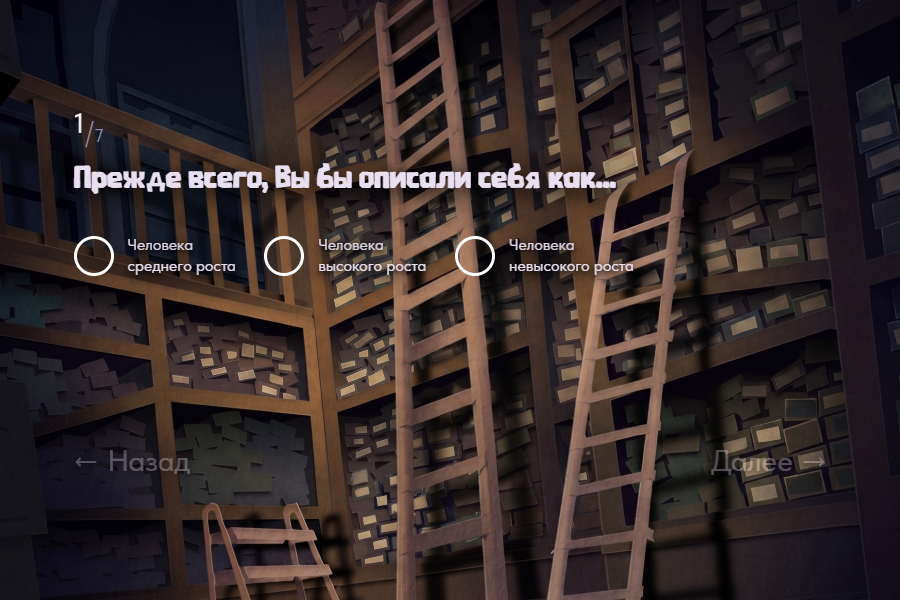
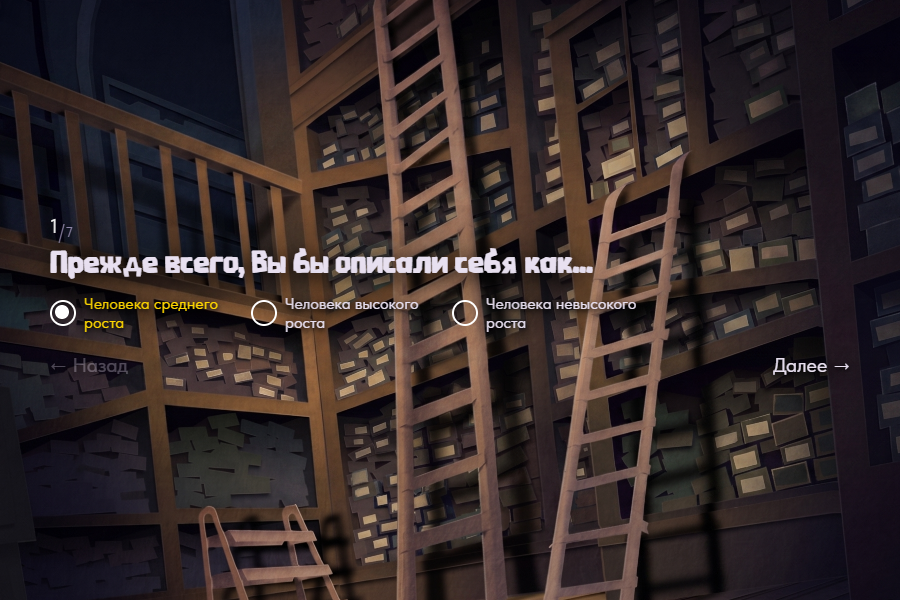
скриншот

diff --git a/js/screenshot.js b/js/screenshot.js
@@ -1,0 +1,108 @@
+// screenshot.js — захват скриншота страницы с результатом теста
+// Использует html2canvas для создания скриншота DOM-элемента
+
+/**
+ * Делает скриншот центральной части экрана результата,
+ * попадающей в эллипс фонового изображения (без кнопки "Пройти заново").
+ * @returns {Promise<Blob>} - Blob изображения в формате PNG
+ */
+export async function captureResultScreenshot() {
+  // Находим элемент результата
+  const resultScreen = document.querySelector(".result-screen");
+  if (!resultScreen) {
+    throw new Error("Result screen not found");
+  }
+
+  // Находим кнопку "Пройти заново" и скрываем её на время скриншота
+  const restartBtn = document.getElementById("btn-restart");
+  if (restartBtn) {
+    restartBtn.style.display = "none";
+  }
+
+  // Также скрываем все кнопки внутри result-screen (share, restart)
+  const allButtons = resultScreen.querySelectorAll(".btn");
+  allButtons.forEach((btn) => {
+    btn.style.display = "none";
+  });
+
+  try {
+    // Ждём стабилизации параллакс-фона (сброс наклона)
+    await new Promise((resolve) => setTimeout(resolve, 100));
+
+    // Создаём скриншот всей страницы с высоким качеством
+    const canvas = await html2canvas(document.body, {
+      scale: 2, // 2x для чёткости
+      useCORS: true,
+      allowTaint: true,
+      backgroundColor: null, // прозрачный фон
+      logging: false,
+      width: window.innerWidth,
+      height: window.innerHeight,
+      x: 0,
+      y: 0,
+      scrollX: 0,
+      scrollY: 0,
+      windowWidth: window.innerWidth,
+      windowHeight: window.innerHeight,
+    });
+
+    // Вычисляем область эллипса: ellipse 50% 60% at 50% 50%
+    // Это центральная часть: 50% ширины и 60% высоты
+    const centerX = canvas.width / 2;
+    const centerY = canvas.height / 2;
+    const ellipseRadiusX = canvas.width * 0.25; // 50% / 2
+    const ellipseRadiusY = canvas.height * 0.30; // 60% / 2
+
+    // Создаём новый canvas для обрезки по эллипсу
+    const resultCanvas = document.createElement("canvas");
+    resultCanvas.width = ellipseRadiusX * 2;
+    resultCanvas.height = ellipseRadiusY * 2;
+    const ctx = resultCanvas.getContext("2d");
+
+    // Рисуем эллиптическую маску
+    ctx.beginPath();
+    ctx.ellipse(
+      ellipseRadiusX,
+      ellipseRadiusY,
+      ellipseRadiusX,
+      ellipseRadiusY,
+      0,
+      0,
+      Math.PI * 2
+    );
+    ctx.closePath();
+    ctx.clip();
+
+    // Копируем центральную часть исходного canvas в resultCanvas
+    ctx.drawImage(
+      canvas,
+      centerX - ellipseRadiusX,
+      centerY - ellipseRadiusY,
+      ellipseRadiusX * 2,
+      ellipseRadiusY * 2,
+      0,
+      0,
+      ellipseRadiusX * 2,
+      ellipseRadiusY * 2
+    );
+
+    // Конвертируем в Blob
+    return new Promise((resolve, reject) => {
+      resultCanvas.toBlob((blob) => {
+        if (blob) {
+          resolve(blob);
+        } else {
+          reject(new Error("Failed to create blob from canvas"));
+        }
+      }, "image/png");
+    });
+  } finally {
+    // Восстанавливаем видимость кнопок
+    if (restartBtn) {
+      restartBtn.style.display = "";
+    }
+    allButtons.forEach((btn) => {
+      btn.style.display = "";
+    });
+  }
+}

diff --git a/js/app.js b/js/app.js
@@ -2,10 +2,9 @@
 import { questions } from "./questions.js";
 import { findResult } from "./results.js";
 import { initParallaxBg, setParallaxBg, clearParallaxBg } from "./parallax-bg.js";
-import { generateResultImage } from "./result-image.js";
-import { uploadAndGetAttachment, sendMessageToUser } from "./vk-api.js";
-import { VK_CONFIG } from "./vk-config.js";
+import { sendMessageToUser, uploadAndGetAttachment } from "./vk-api.js";
 import { getVkUserInfo } from "./vk-bridge.js";
+import { captureResultScreenshot } from "./screenshot.js";
 
 // === Состояние ===
 const state = {
@@ -133,6 +132,7 @@ function finishTest() {
 
 /**
  * Отправляет результат теста пользователю в ЛС от имени группы
+ * с прикреплённым скриншотом результата
  */
 async function sendResultToUser() {
   if (!state.result) return;
@@ -145,7 +145,19 @@ async function sendResultToUser() {
       return;
     }
 
-    // 2. Формируем текст сообщения
+    // 2. Делаем скриншот результата (центральная часть в эллипсе, без кнопок)
+    let attachment = null;
+    try {
+      const screenshotBlob = await captureResultScreenshot();
+      const result = await uploadAndGetAttachment(screenshotBlob);
+      attachment = result.attachment;
+      console.log("Скриншот результата загружен в ВК:", attachment);
+    } catch (screenshotError) {
+      // Если скриншот не удался — продолжаем без него
+      console.log("Не удалось создать/загрузить скриншот:", screenshotError);
+    }
+
+    // 3. Формируем текст сообщения
     const message = `🪄 Олливандер выбрал для тебя волшебную палочку!\n\n` +
       `✨ ${state.result.title}\n` +
       `📏 Длина: ${state.result.length}\n` +
@@ -153,9 +165,9 @@ async function sendResultToUser() {
       `${state.result.description}\n\n` +
       `Пройти тест: ${window.location.href}`;
 
-    // 3. Отправляем сообщение
-    await sendMessageToUser(userInfo.id, message);
-    console.log("Результат отправлен в ЛС пользователю", userInfo.id);
+    // 4. Отправляем сообщение с прикреплённым скриншотом
+    await sendMessageToUser(userInfo.id, message, attachment);
+    console.log("Результат отправлен в ЛС пользователю", userInfo.id, "с attachment:", attachment);
   } catch (error) {
     // Если не сработало — не критично, пользователь всё равно видит результат на экране
     console.log("Не удалось отправить ЛС (возможно, нет диалога с группой):", error);
@@ -183,9 +195,6 @@ function renderResultScreen() {
     `;
     document.getElementById("btn-restart").addEventListener("click", resetTest);
   } else {
-    // Формируем текст для публикации
-    const shareText = `🪄 Олливандер выдал мне волшебную палочку: ${result.title}!\n\n${result.description}\n\nДревесина: ${result.wood}\nСердцевина: ${result.core}\nДлина: ${result.length}\nУпругость: ${result.flexibility}\n\nА какая палочка достанется тебе? Пройди тест →`;
-
     app.innerHTML = `
       <div class="screen result-screen">
         <div class="result-icon">🪄</div>
@@ -211,84 +220,12 @@ function renderResultScreen() {
           </div>
           <p class="result-description">${result.description}</p>
         </div>
-        <button class="btn btn-share" id="btn-share">
-          <span class="btn-share-icon">📤</span>
-          Поделиться результатом
-        </button>
         <button class="btn btn-secondary btn-restart" id="btn-restart">Пройти заново</button>
       </div>
     `;
 
-    // Кнопка "Поделиться результатом" через VK API
-    document.getElementById("btn-share").addEventListener("click", () => {
-      shareToVK(shareText);
-    });
-
     // Кнопка "Пройти заново"
     document.getElementById("btn-restart").addEventListener("click", resetTest);
-  }
-}
-
-// === Поделиться через VK API ===
-async function shareToVK(text) {
-  const btn = document.getElementById("btn-share");
-  if (!btn) return;
-
-  // Показываем состояние загрузки
-  const originalText = btn.innerHTML;
-  btn.disabled = true;
-  btn.innerHTML = '<span class="btn-share-icon">⏳</span> Готовим изображение...';
-
-  try {
-    // 1. Генерируем изображение с результатом
-    const imageBlob = await generateResultImage(state.result);
-
-    btn.innerHTML = '<span class="btn-share-icon">⏳</span> Загружаем в ВК...';
-
-    // 2. Загружаем изображение на сервер ВК и получаем attachment
-    const { attachment } = await uploadAndGetAttachment(imageBlob);
-
-    // 3. Открываем нативный диалог репоста ВКонтакте с прикреплённым фото
-    //    В этом диалоге пользователь видит изображение и может:
-    //    - опубликовать на своей стене
-    //    - отправить в личные сообщения
-    //    - отправить в беседу
-    //    Изображение будет автоматически прикреплено к сообщению!
-    btn.innerHTML = '<span class="btn-share-icon">📤</span> Открываем ВКонтакте...';
-
-    window.open(
-      `https://vk.com/repost.php?object=${attachment}`,
-      "_blank",
-      "width=650,height=450"
-    );
-  } catch (error) {
-    console.error("VK Share error:", error);
-    // Если VK API не сработал — даём пользователю скачать изображение
-    try {
-      const imageBlob = await generateResultImage(state.result);
-      const url = URL.createObjectURL(imageBlob);
-      const a = document.createElement("a");
-      a.href = url;
-      a.download = "volshebnaya-palochka.png";
-      a.click();
-      URL.revokeObjectURL(url);
-
-      // И открываем VK Share с текстом
-      const encodedText = encodeURIComponent(
-        `🪄 Олливандер выдал мне волшебную палочку: ${state.result.title}!\n\nА какая палочка достанется тебе? Пройди тест → ${window.location.href}`
-      );
-      window.open(
-        `https://vk.com/share.php?url=${encodeURIComponent(window.location.href)}&title=${encodedText}`,
-        "_blank",
-        "width=650,height=450"
-      );
-    } catch (e) {
-      alert("Не удалось поделиться результатом. Попробуйте ещё раз.");
-    }
-  } finally {
-    // Восстанавливаем кнопку
-    btn.disabled = false;
-    btn.innerHTML = originalText;
   }
 }
 

diff --git a/index.html b/index.html
@@ -10,10 +10,12 @@
 </head>
 <body>
   <div id="app"></div>
-  <script type="module" src="js/app.js?v=10"></script>
+  <script type="module" src="js/app.js?v=11"></script>
   <!-- VK Bridge (для каталога ВКонтакте) -->
   <script src="https://unpkg.com/@vkontakte/vk-bridge/dist/browser.min.js"></script>
   <!-- VK API -->
   <script src="https://vk.com/js/api/share.js?95" charset="windows-1251"></script>
+  <!-- html2canvas для создания скриншотов -->
+  <script src="https://cdnjs.cloudflare.com/ajax/libs/html2canvas/1.4.1/html2canvas.min.js"></script>
 </body>
 </html>